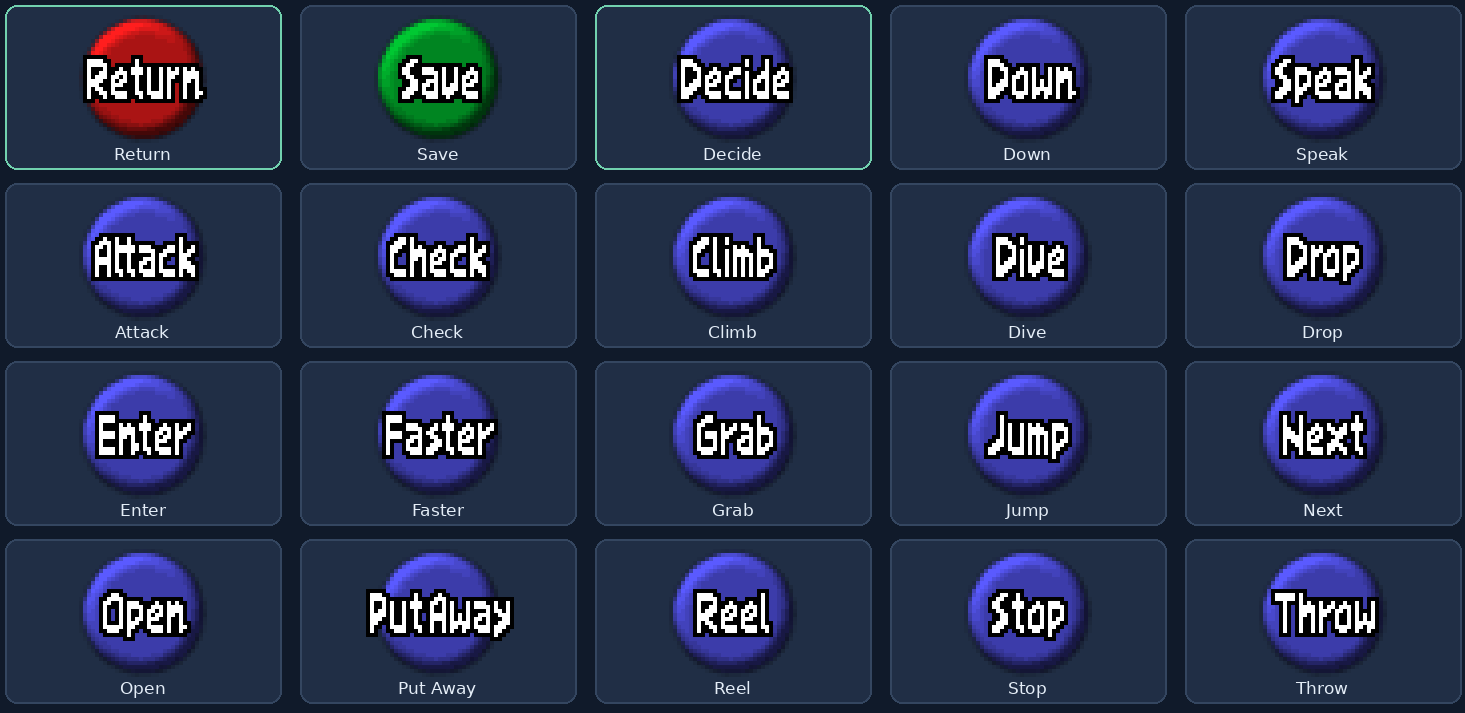
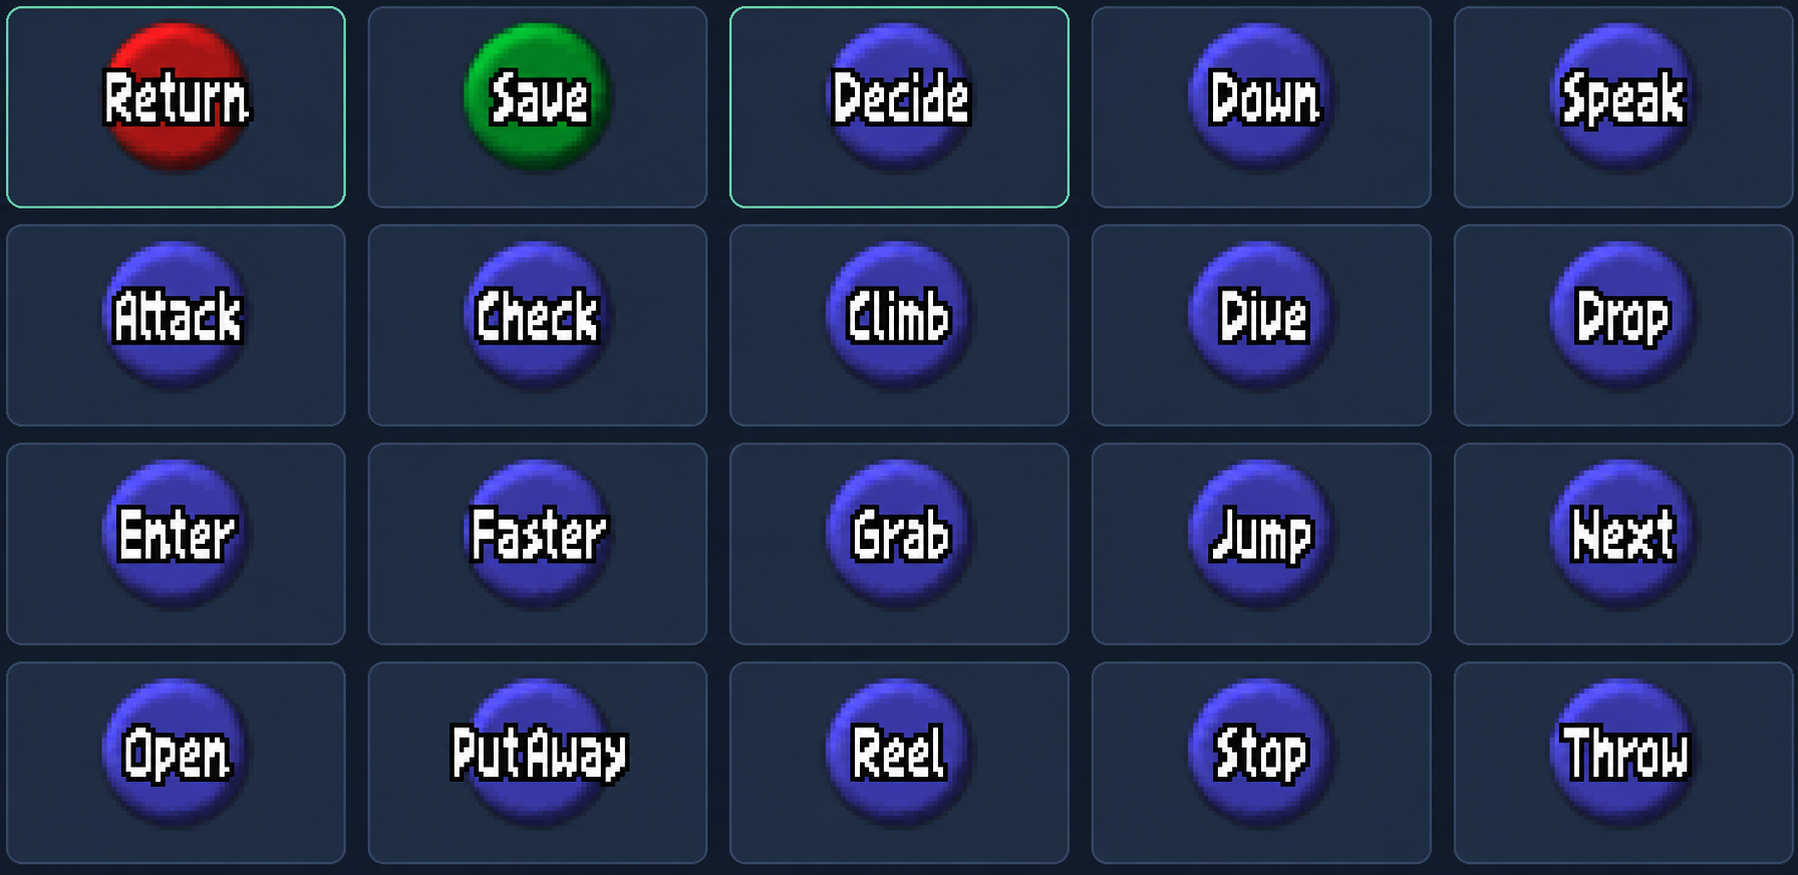
Remove redundant captions beneath HUD buttons

diff --git a/docs/index.html b/docs/index.html
@@ -12,7 +12,7 @@
 <section id="vision" class="chapter" aria-labelledby="vision-title"><div class="chapter-label">01 / THE VISION</div><div class="hero-layout"><div class="hero-copy"><h1 id="vision-title">The Hyrule you remember.<br><em>A clearer view.</em></h1><p class="lead">Ocarina of Time at native <strong>640×480</strong>, with crisp lettering and carefully chosen curated conveniences.</p><p>The goal is simple: make the game easier to see and use, keep its familiar artwork and pacing, and reduce avoidable rendering work.</p><a class="button primary" href="#redux">See what changes <span aria-hidden="true">→</span></a><div class="hero-facts"><span>US 1.0</span><span>4:3 · 480i</span><span>8 MB RDRAM</span></div></div><figure class="hero-image"><img src="assets/hero.png" width="640" height="480" alt="Child Link standing outside his house in Kokiri Forest at native 640 by 480 resolution"><figcaption><span class="pixel-tag">640×480 NATIVE</span> Emulator capture</figcaption></figure></div><div class="vision-band"><div><b>Clarity with character</b><p>Orange Kid for dialogue and plain UI. Original styling for iconic artwork and action labels.</p></div><div><b>Classic pacing</b><p>The native NTSC target stays at 20 FPS. This is a resolution and clarity build.</p></div><div><b>Built for your core</b><p>Targeted at the MiSTer N64 94MHz+ core, with separate automated emulator validation.</p></div></div></section>
 <section id="redux" class="chapter" hidden aria-labelledby="redux-title"><div class="chapter-label">02 / SELECTED ZELDA REDUX ADDITIONS</div><h1 id="redux-title">Less menu time.<br><em>Same adventure.</em></h1><p class="lead narrow">This build integrates selected Redux quality-of-life additions. Here is what you will actually notice while playing.</p><div class="redux-layout"><div class="control-panel"><h2>D-pad quick access</h2><div class="dpad" aria-hidden="true"><span class="d-up">↑</span><span class="d-left">←</span><span class="d-center">+</span><span class="d-right">→</span><span class="d-down">↓</span></div><table class="controls"><caption class="sr-only">D-pad controls</caption><tbody><tr><th scope="row">↑ Up</th><td>Use the Lens of Truth</td></tr><tr><th scope="row">↓ Down</th><td>Use your ocarina</td></tr><tr><th scope="row">← Left</th><td>Toggle Iron Boots</td></tr><tr><th scope="row">→ Right</th><td>Toggle Hover Boots</td></tr></tbody></table><p class="small">You must own the item. Boots are for adult Link; pressing the same boot shortcut again returns to Kokiri Boots. Normal gameplay restrictions still apply.</p></div><div class="feature-stack"><article><span class="mini-label">DIALOGUE</span><h2>Read at your pace, with less waiting</h2><p>Normal English text reveals up to 12 glyphs per update. Choices, authored pauses and deliberately slow text keep their intended behavior.</p></article><article><span class="mini-label">MOVEMENT</span><h2>Quicker block pushing and pulling</h2><p>The push takes fewer frames while retaining the correct grid movement and final position.</p></article><div class="note"><strong>A focused selection</strong><p>This is not the full Redux feature set. Intro skipping, the font work and the warmer rupee sound are additional changes in Orange Kid, described later in this guide.</p></div></div></div><div class="note"><strong>Redux attribution</strong><p>Ocarina of Time Redux was started by <a href="https://github.com/Maroc-rh">Maroc</a>, with continuation and documentation by <a href="https://github.com/ShadowOne333">ShadowOne333</a>. Orange Kid integrates selected quality-of-life additions from this work.</p><p><a href="https://github.com/Maroc-rh/Ocarina-of-Time-REDUX">Maroc’s original Redux project →</a><br><a href="https://github.com/ShadowOne333/Zelda64-Redux-Documentation">ShadowOne333’s Zelda64 Redux documentation →</a></p></div></section>
 <section id="text" class="chapter" hidden aria-labelledby="text-title"><div class="chapter-label">03 / A CLEARER CONVERSATION</div><h1 id="text-title">The same words.<br><em>Sharper letterforms.</em></h1><p class="lead narrow">Actual game renders of Saria's Kokiri Forest dialogue. Start with the enlarged dialogue detail, then switch to the full native frame.</p><div class="compare-tools"><div><button class="capture-view active" data-mode="detail" aria-pressed="true">Dialogue detail</button><button class="capture-view" data-mode="scene" aria-pressed="false">Full scene</button></div><span>Nearest-neighbor display · no added smoothing</span></div><div class="comparison-labels"><span>Stock OoT dialogue</span><span>Orange Kid</span></div><div class="comparison" style="--split:50%"><img id="orange-capture" class="base" src="assets/dialogue-orange-detail.png" width="400" height="88" alt="Actual Orange Kid dialogue render: I'll wait for you here. Get going! Go see the Great Deku Tree!"><div class="before-overlay"><img id="stock-capture" src="assets/dialogue-original-detail.png" width="400" height="88" alt="Actual original OoT glyphs and texture filtering for the same dialogue"></div><div class="compare-line"><span aria-hidden="true">↔</span></div><input id="text-slider" type="range" min="0" max="100" value="50" aria-label="Reveal original dialogue over Orange Kid"></div><div class="compare-tools"><span>Drag the divider, or choose a view.</span><div><button class="text-view active" data-value="50">Split</button><button class="text-view" data-value="100">Original</button><button class="text-view" data-value="0">Orange Kid</button></div></div><p class="provenance">Both images are native 640×480 emulator framebuffer captures. The comparison build restores the original dialogue glyphs, filtering, shadow and spacing within the same high-resolution build. It is not a stock 320×240 screenshot. The same Saria message is opened for capture; no letters are drawn onto either image afterward. The detail is an unedited crop, enlarged without smoothing.</p><p class="small"><a href="assets/dialogue-original.png">Open original-text native frame</a> · <a href="assets/dialogue-orange.png">Open Orange Kid native frame</a> · <a href="#mister">MiSTer viewing profile</a></p><div class="two-notes"><div><h2>Native shapes, clean edges</h2><p>The font keeps its own proportions. Letter spacing is checked, lowercase <b>i</b> is one column wide, and the new glyphs use point sampling rather than softened edges.</p></div><div><h2>Icons align with the new text</h2><p>Inline controller symbols move slightly down to sit alongside the dialogue. Text content and control codes retain their meaning.</p></div></div></section>
-<section id="hud" class="chapter" hidden aria-labelledby="hud-title"><div class="chapter-label">04 / HUD &amp; MENUS</div><h1 id="hud-title">Small labels.<br><em>A big clarity difference.</em></h1><p class="lead narrow">Action buttons follow the crisp Return and Decide look. File menus and name entry use Orange Kid.</p><figure class="wide-figure"><img src="assets/hud.png" width="1465" height="713" alt="Crisp action labels including Return, Save, Decide, Down, Speak, Attack, Check, Climb, Dive and Drop"><figcaption>Exact action-texture preview. Button surrounds are illustrative; this is not a placement screenshot.</figcaption></figure><div class="two-notes"><div><h2>The Save fix</h2><p>Save has a separate label-rendering path. Its point-sampling fix removes the remaining softness while keeping the button’s position and shape.</p></div><div><h2>Keep the familiar action style</h2><p>HUD commands use the original white OoT letter shapes with a solid black outline, matching Return and Decide. Orange Kid is used for plain text elsewhere.</p></div></div><div class="image-pair menu-pair"><figure><img src="assets/file-menu.png" width="640" height="480" alt="File selection menu with sharp File 1, File 2, File 3, Copy, Erase and Options lettering" loading="lazy"><figcaption>Native emulator capture. File and action lettering is retained in v1.</figcaption></figure><div><h2>A cleaner file menu</h2><p>File 1–3, Copy, Erase, Options, Yes, Quit and END use cleaned Orange Kid glyphs. Borders and button geometry are retained.</p><img class="alphabet" src="assets/alphabet.png" width="957" height="356" alt="Orange Kid uppercase and lowercase alphabet, numbers and punctuation used on the name-entry screen" loading="lazy"><p class="provenance">Approved name-entry glyph asset preview.</p></div></div></section>
+<section id="hud" class="chapter" hidden aria-labelledby="hud-title"><div class="chapter-label">04 / HUD &amp; MENUS</div><h1 id="hud-title">Small labels.<br><em>A big clarity difference.</em></h1><p class="lead narrow">Action buttons follow the crisp Return and Decide look. File menus and name entry use Orange Kid.</p><figure class="wide-figure"><img src="assets/hud.png" width="1798" height="875" alt="Crisp action labels including Return, Save, Decide, Down, Speak, Attack, Check, Climb, Dive and Drop"><figcaption>Exact action-texture preview. Button surrounds are illustrative; this is not a placement screenshot.</figcaption></figure><div class="two-notes"><div><h2>The Save fix</h2><p>Save has a separate label-rendering path. Its point-sampling fix removes the remaining softness while keeping the button’s position and shape.</p></div><div><h2>Keep the familiar action style</h2><p>HUD commands use the original white OoT letter shapes with a solid black outline, matching Return and Decide. Orange Kid is used for plain text elsewhere.</p></div></div><div class="image-pair menu-pair"><figure><img src="assets/file-menu.png" width="640" height="480" alt="File selection menu with sharp File 1, File 2, File 3, Copy, Erase and Options lettering" loading="lazy"><figcaption>Native emulator capture. File and action lettering is retained in v1.</figcaption></figure><div><h2>A cleaner file menu</h2><p>File 1–3, Copy, Erase, Options, Yes, Quit and END use cleaned Orange Kid glyphs. Borders and button geometry are retained.</p><img class="alphabet" src="assets/alphabet.png" width="957" height="356" alt="Orange Kid uppercase and lowercase alphabet, numbers and punctuation used on the name-entry screen" loading="lazy"><p class="provenance">Approved name-entry glyph asset preview.</p></div></div></section>
 <section id="world" class="chapter" hidden aria-labelledby="world-title"><div class="chapter-label">05 / ORIGINAL HYRULE</div><h1 id="world-title">Preserve the artwork<br><em>that makes it Zelda.</em></h1><p class="lead narrow">Sharper plain text sits alongside the original title logo, area-entry cards and printed map location names.</p><div class="image-pair"><figure><img src="assets/map.png" width="640" height="480" alt="Map page showing original Kokiri Forest lettering under Current Position and Orange Kid on the bottom tablet"><figcaption>Native emulator capture: original position name above, Orange Kid label below.</figcaption></figure><div class="world-copy"><img class="title-card" src="assets/original-title.png" width="432" height="72" alt="Original Kokiri Forest area-entry title-card texture"><h2>Original location names</h2><p>All 57 English area-entry cards retain the original artwork. Printed map position names and previously changed dungeon headings are restored too.</p><h2>Clarity where it belongs</h2><p>Bottom map labels, navigation prompts and item names remain Orange Kid.</p></div></div><div class="image-pair title-pair"><figure><img src="assets/title.png" width="640" height="480" alt="Original Zelda title logo, centered Press Start, Nintendo copyright and dedication to Walt Jr" loading="lazy"><figcaption>Native emulator title capture; this title artwork and dedication are retained.</figcaption></figure><div><span class="mini-label">THE TITLE SCREEN</span><h2>The original Zelda logo.<br>A personal dedication.</h2><p>PRESS START is centered. The copyright uses Orange Kid, followed by orange text beneath it:</p><blockquote>Dedicated to Walt Jr:<br>1992 - 2026</blockquote></div></div></section>
 <section id="play" class="chapter" hidden aria-labelledby="play-title"><div class="chapter-label">06 / PLAY &amp; SOUND</div><h1 id="play-title">Back to Kokiri Forest,<br><em>without the wait.</em></h1><div class="image-pair"><figure><img src="assets/hero.png" width="640" height="480" alt="Child Link starts outside his house in Kokiri Forest"><figcaption>Native emulator capture of the intro-skip starting point.</figcaption></figure><div><h2>Opening intro skip</h2><p>New files skip the dream, Navi’s arrival and Saria’s greeting. Child Link starts outside his house at 10:00 with three hearts and the normal empty inventory.</p><p>Existing files are retained. Forest saves resume outside the house; adult and dungeon spawning keep their previous behavior.</p></div></div><div class="sound-section"><div><span class="mini-label">AUDIO CLEANUP</span><h2>A softer rupee pickup</h2><p>Lower volume, softer treble, a little lower-octave body and short reverb. Only the pickup sound is replaced; music, other effects and rupee-counting ticks keep their original audio.</p></div><div class="audio-players"><label for="audio-original">Original pickup</label><audio id="audio-original" controls preload="none" src="assets/rupee-original.wav">Your browser does not support audio playback.</audio><label for="audio-v1">Orange Kid v1</label><audio id="audio-v1" controls preload="none" src="assets/rupee-v1.wav">Your browser does not support audio playback.</audio><p class="provenance">Actual-ROM captures on their original level scale. Faint scene ambience remains.</p></div></div></section>
 <section id="mister" class="chapter" hidden aria-labelledby="mister-title"><div class="chapter-label">07 / TARGETING MISTER</div><h1 id="mister-title">Made for the<br><em>MiSTer N64 94MHz+ core.</em></h1><p class="lead narrow">The larger native image is designed around this core, which was also used for your hardware testing.</p><div class="two-notes"><div><h2>Why target this core?</h2><p>A 640×480 frame contains four times as many pixels as the original 320×240 image. The build keeps native graphics and the original 20 FPS NTSC target, while reducing repeated CPU work to help with the larger workload.</p><p>The higher core clock does not change the game's frame-rate target.</p></div><div><h2>The setup</h2><table class="controls"><tbody><tr><th>Core</th><td>MiSTer N64 94MHz+</td></tr><tr><th>Memory</th><td>8 MB RDRAM</td></tr><tr><th>Native image</th><td>640×480 NTSC 480i</td></tr><tr><th>Shape</th><td>4:3</td></tr><tr><th>Game target</th><td>20 FPS</td></tr></tbody></table></div></div><h2 class="section-heading">Reference MiSTer video profile</h2><p>The following settings come from your supplied MiSTer menu photo. Use this profile when viewing the build on MiSTer.</p><div class="settings-grid"><table class="controls"><tbody><tr><th>Video Out</th><td>Original (VI)</td></tr><tr><th>VI Colorbits</th><td>24</td></tr><tr><th>VI Bilinear</th><td>Off</td></tr><tr><th>VI Deblur</th><td>On</td></tr><tr><th>VI Gamma</th><td>Off</td></tr></tbody></table><table class="controls"><tbody><tr><th>VI Dedither / Antialias</th><td>Original</td></tr><tr><th>VI Divot / Noisedither</th><td>Original</td></tr><tr><th>Texture Filter</th><td>Original</td></tr><tr><th>Dithering / LOD Textures</th><td>Original</td></tr><tr><th>Error Overlay</th><td>Off</td></tr></tbody></table></div><div class="note"><strong>How to read the screenshots</strong><p>Website gameplay images are native emulator framebuffer captures saved as RGB PNGs. No shader, added blur or image enhancement is applied. They show the ROM's rendered pixels; they do not reproduce the MiSTer VI deblur circuit exactly.</p></div><details><summary>Hardware testing and emulator checks</summary><div><p>The user-confirmed earlier baseline was tested on the MiSTer N64 94MHz+ core. The final rendering fixes also passed automated CPU/RSP/RDP emulator scenarios and targeted code tests. A full hardware playthrough and measured MiSTer FPS comparison have not been established.</p></div></details></section>
